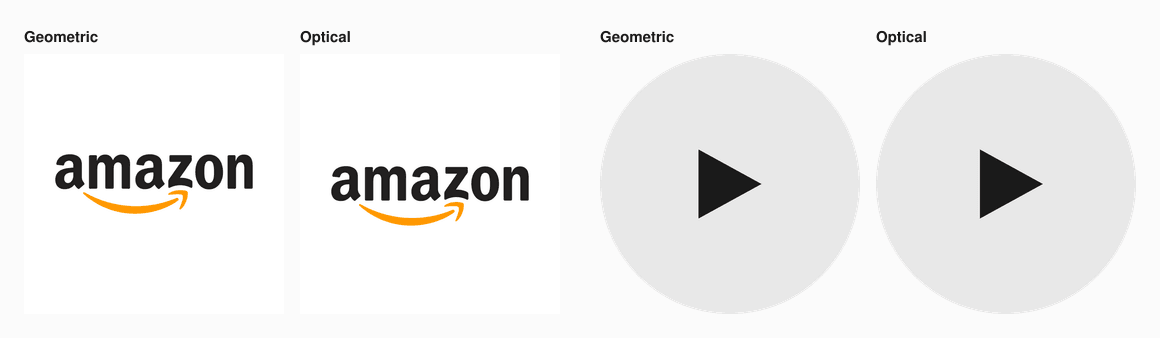
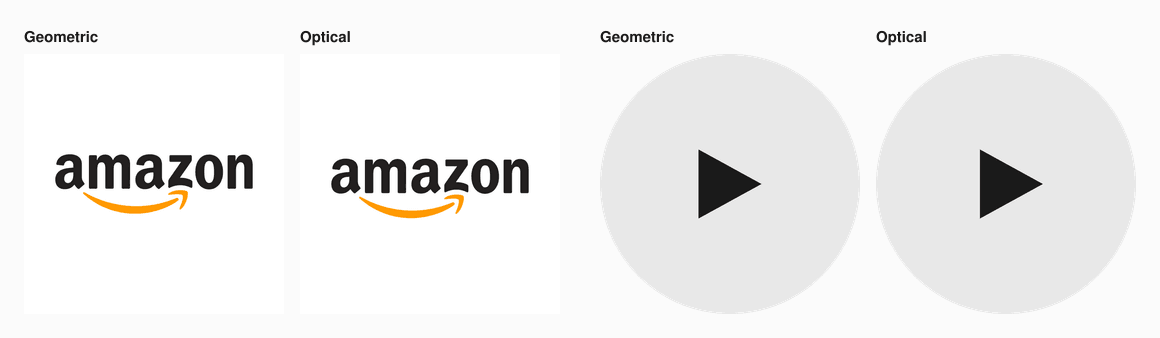
optical-balance: weight colour by luma-or-chroma contrast (first pass)

Changed region(s): [[0.2793, 0.4734, 0.4655, 0.6805]]

diff --git a/skills/optical-balance/EVIDENCE.md b/skills/optical-balance/EVIDENCE.md
@@ -1,6 +1,6 @@
 # Evidence
 
-Each result in this file comes with the command that reproduces it. Run the commands from the skill folder, after `npm ci` in `scripts/`. The logo examples use files from the repository's `sites/optical-balance/sources`, so clone the repository to rerun them. The worked outputs below are historical, from 2026-10-03; v2 changes targets and final-pixel scoring. If a rerun gives a different output, the rerun is correct, and this file needs an update.
+Each result in this file comes with the command that reproduces it. Run the commands from the skill folder, after `npm ci` in `scripts/`. The logo examples use files from the repository's `sites/optical-balance/sources`, so clone the repository to rerun them. The Amazon tile and equalization outputs were rerun with perceptual colour distance (OKLab chroma plus luminance contrast). Other examples remain historical. If a rerun gives a different output, the rerun is correct, and this file needs an update.
 
 ## Worked example: the Amazon wordmark on a tile
 
@@ -11,44 +11,37 @@ node scripts/optical.mjs tile ../../sites/optical-balance/sources/amazon.svg --o
 The script crops the mark to its ink, fits it into the art box of a 256px tile, and measures it against white. Then it places the mark and measures the baked tile again:
 
 ```
-1. artwork cropped to its ink and fitted into the art box (visual centering): the offset to apply is here
+1. artwork cropped to its ink and fitted into the art box (visual centering). The bake applies this offset; for a component, use place instead.
 image            195x59, background luminance 255.0
 ink box          195x59 at 0,0
 box center       97.5, 29.5
-alpha centroid   95.4, 22.3
-mass centroid    97.1, 18.2  (contrast-weighted, accent discounted)
-extent center    97.5, 17.5  (box of the ink the eye reads, 195x35)
-visual center    97.3, 17.8  (extent moved 0.5 of the way to mass)
-faint-ink share  15% below contrast 0.6
-visual size      59.8px (sqrt of contrast-weighted ink area)
-perceived size   59.4px (geometric mean of visual size and ink height; equal across an equalized set)
-offset to apply  x +0.2px (+0.1%), y +11.7px (+19.8%)  (positive y moves the element down)
-css              transform: translate(0.11%, 19.78%)  (percent of this image's own box, as placed)
-off center       19.78% of the shorter side (11.7px)  (to judge a rendered result, use check)
+alpha centroid   95.4, 22.2
+mass centroid    96.1, 20.6  (contrast-weighted, accent discounted)
+extent center    97.5, 29.5  (box of the ink the eye reads, 195x59)
+visual center    96.8, 25.0  (extent moved 0.5 of the way to mass)
+faint-ink share  0% below contrast 0.6
+visual size      61.7px (sqrt of contrast-weighted ink area)
+perceived size   60.4px (geometric mean of visual size and ink height; equal across an equalized set)
+offset to apply  x +0.7px (+0.4%), y +4.5px (+7.6%)  (positive y moves the element down)
+off center       7.65% of the shorter side (4.5px)  (to judge a rendered result, use check)
 
 2. baked tile amazon-tile.png: its off center line is the gate
 image            256x256, background luminance 255.0
-ink box          195x59 at 31,110
+ink box          195x59 at 31,103
 box center       128.0, 128.0
-alpha centroid   126.6, 132.4
-mass centroid    128.2, 128.1  (contrast-weighted, accent discounted)
-extent center    128.5, 127.5  (box of the ink the eye reads, 195x35)
-visual center    128.3, 127.8  (extent moved 0.5 of the way to mass)
-faint-ink share  31% below contrast 0.6
-visual size      59.8px (sqrt of contrast-weighted ink area)
-perceived size   59.4px (geometric mean of visual size and ink height; equal across an equalized set)
-offset to apply  x -0.3px (-0.1%), y +0.2px (+0.1%)  (positive y moves the element down)
-css              transform: translate(-0.13%, 0.08%)  (percent of this image's own box, as placed)
-off center       0.15% of the shorter side (0.4px)  PASS at 1%
+alpha centroid   126.6, 125.5
+mass centroid    127.1, 123.7  (contrast-weighted, accent discounted)
+extent center    128.5, 132.5  (box of the ink the eye reads, 195x59)
+visual center    127.8, 128.1  (extent moved 0.5 of the way to mass)
+faint-ink share  20% below contrast 0.6
+visual size      62.0px (sqrt of contrast-weighted ink area)
+perceived size   60.5px (geometric mean of visual size and ink height; equal across an equalized set)
+offset to apply  x +0.2px (+0.1%), y -0.1px (-0.0%)  (positive y moves the element down)
+off center       0.08% of the shorter side (0.2px)  PASS at 1%
 ```
 
-How to read it:
-
-- The extent center (y 17.5) uses the 35px-tall letters only, because the smile is faint ink at a 15% share. The ink box is 59px tall, because it includes the smile.
-- The alpha centroid (y 22.3) counts the smile at full weight. It would leave the letters too high.
-- The offset moves the mark down by 11.7px, which is 19.8% of its height.
-- The baked tile is 0.4px off center: 0.15% of the tile, which passes the 1% gate.
-- The faint-ink share rises from 15% to 31% in the baked tile. The tile is opaque, and its anti-aliased edges add faint ink. The share stays below 1/3, so the discount still applies. A mark with a share near 1/3 could switch.
+OKLab chroma now makes the smile strong ink, so the extent includes the whole mark.
+The smaller correction replaces the historical luminance-only placement.
 
 ## Worked example: a nine-logo strip
 
@@ -57,26 +50,27 @@ node scripts/optical.mjs equalize ../../sites/optical-balance/sources/{amazon,go
 ```
 
 ```
-Historical target visual size 23.4px at row height 40px
+target perceived size 33.9px at row height 40px
 file                  equal-height  visual size  correction     ink (w x h)    file (w x h)
-amazon.svg                  132x40         40.7      x0.758      100.2x30.3      100.4x30.3
-google.svg                  121x40         26.3      x0.943      114.6x37.7      115.7x39.1
-stripe.svg                   96x40         30.3      x0.878       84.5x35.1       84.5x35.1
-slack.svg                   158x40         44.6      x0.724      114.5x29.0      115.0x29.3
-shopify.svg                 140x40         38.6      x0.778      109.1x31.1      109.2x34.2
-apple.svg                    33x40         28.7      x0.902       29.4x36.1       29.4x36.1
-mastercard.svg               52x40         28.5      x0.906       46.7x36.2       46.7x36.2
-netflix.svg                 148x40         41.7      x0.749      110.7x29.9      110.7x29.9
-airbnb.svg                  128x40         23.4      x1.000      128.0x40.0      128.0x40.0
+amazon.svg                  132x40         42.1      x0.826      109.3x33.1      109.5x33.1
+google.svg                  121x40         32.4      x0.942      114.4x37.7      115.5x39.0
+stripe.svg                   96x40         39.2      x0.856       82.3x34.2       82.3x34.2
+slack.svg                   158x40         46.4      x0.787      124.4x31.5      125.0x31.9
+shopify.svg                 140x40         40.4      x0.843      118.2x33.7      118.3x37.1
+apple.svg                    33x40         28.7      x1.000       32.6x40.0       32.6x40.0
+mastercard.svg               52x40         35.0      x0.907       46.7x36.3       46.7x36.3
+netflix.svg                 148x40         47.7      x0.776      114.7x31.0      114.7x31.0
+airbnb.svg                  128x40         31.2      x0.960      122.9x38.4      122.9x38.4
 ink: the visible artwork at its new size. file: the whole file at the same scale, padding included; use it to size an <img> of the file as it is.
+These are the computed sizes. strip renders them, corrects the rounding, and checks the result.
 ```
 
 How to read it:
 
-- At equal height, Slack, Netflix, and Amazon have the largest visual sizes. Airbnb has the smallest, so it is the target, and it keeps its full height.
+- At equal height, Netflix, Slack, and Amazon have the largest visual sizes. Apple sets the smallest perceived-size target and keeps its height.
 - Apple and Mastercard are compact marks with small visual sizes at equal height. They shrink less than the wide wordmarks.
 - The `file` column is larger than the `ink` column where the SVG has padding, as Google and Shopify do. Use it to size an `<img>` of the file.
-- `node scripts/optical.mjs strip <same files> --out strip.png --height 40` renders each file at its printed height and measures a size spread of 0.73%.
+- `node scripts/optical.mjs strip <same files> --out strip.png --height 40` renders each file at its printed height and measures a size spread of 2.0815%.
 
 ## Calibration: the size power on an icon set
 
@@ -129,7 +123,7 @@ Each case is a section of [the write-up](https://kairevicius.github.io/skills/op
 
 | case | what it shows |
 |---|---|
-| a two-tone mark on a tile (Amazon) | contrast squared and the strong-ink extent put the letters on the center line |
+| a two-tone mark on a tile (Amazon) | perceptual colour distance gives the smile mass and extent influence |
 | the same mark in dark mode | the background decides which ink is faint, so each theme has its own offset |
 | when not to discount (PayPal) | above 1/3, faint ink is a second tone and keeps its full weight |
 | icons in round buttons | a play icon moves right, an arrow moves left |

diff --git a/skills/optical-balance/SKILL.md b/skills/optical-balance/SKILL.md
@@ -41,6 +41,7 @@ These are the words that the script prints. Use each one with this meaning only.
 
 - **element size**: the size of the file's own box as the layout places it, padding included. It is the box of the `<img>` or `<svg>`, not of its ink.
 - **box center**: the center of the image as the layout places it.
+- **contrast**: perceptual colour distance from the background: `min(1, max(luminance contrast, OKLab chroma distance / 0.25))`.
 - **ink**: pixels with a contrast above 0.02 against the background.
 - **faint ink**: ink with a contrast below 0.6. Strong ink has a contrast of 0.6 or more.
 - **accent discount**: when faint ink is at most 1/3 of the ink, the faint ink is an accent and counts for less.
@@ -182,7 +183,7 @@ The browser regression reproduces this procedure: `npm run test:browser` in the 
 
 - **Alpha-only weights** under-correct a two-tone mark, because they count faint ink at full weight. Keep the default weights.
 - **Equal ink area** (`--strength 1`) shrinks wide wordmarks until they look smaller than a compact solid mark. Keep the default power of 0.5.
-- **Saturated color.** The method measures luminance contrast only. A saturated red and a gray of the same luminance get the same weight, but the red looks heavier. Treat the size of a strongly colored mark as a first value, and confirm it in context.
+- **Saturated color.** OKLab chroma contributes to perceptual colour distance. The normalisation remains a heuristic; confirm strongly coloured marks in context.
 
 ## Files
 

diff --git a/skills/optical-balance/METHOD.md b/skills/optical-balance/METHOD.md
@@ -8,11 +8,23 @@ The script reads a raster. It rasterizes vector input first, at a 1024px longest
 
 ```
 luma         = 0.299 R + 0.587 G + 0.114 B       Rec. 601
-contrast     = |luma − background luma| / 255    0 to 1
+contrast     = min(1, max(luminance contrast, OKLab chroma distance / 0.25))
              skip the pixel when contrast ≤ 0.02 (it is background)
 mass weight  w = alpha × contrast²               for position
 size weight  s = alpha × contrast                for size
 ```
+
+Contrast means perceptual colour distance from the background, using OKLab chroma and the existing luminance scale.
+
+The conversion follows [the OKLab reference](https://bottosson.github.io/posts/oklab/), after linearising sRGB.
+
+OKLab chroma distance is `sqrt((a − background a)² + (b − background b)²)`.
+Luminance contrast remains `abs(luma − background luma) / 255`.
+The 0.25 normalisation is a heuristic scale, not measured human preference.
+Reproduce it with `node --test scripts/v2-test.mjs`; the saturated-orange test checks the resulting weight.
+Neutral colours have zero chroma, so greyscale weights stay unchanged.
+Alpha multiplies each weight; flattened pixels use their composited colour.
+All ink, accent, and crop thresholds use this same contrast.
 
 Position and size need different weights:
 

diff --git a/skills/optical-balance/fixtures/colour/README.md b/skills/optical-balance/fixtures/colour/README.md
@@ -1,0 +1,6 @@
+Amazon path data comes from Simple Icons (CC0):
+https://github.com/simple-icons/simple-icons/blob/develop/LICENSE.md
+
+The colour variant overlays the smile in #FF9900; the letter is #232F3E.
+The mono and white variants use the same silhouette.
+Amazon names and marks remain trademarks of their owners. CC0 does not grant trademark rights.
